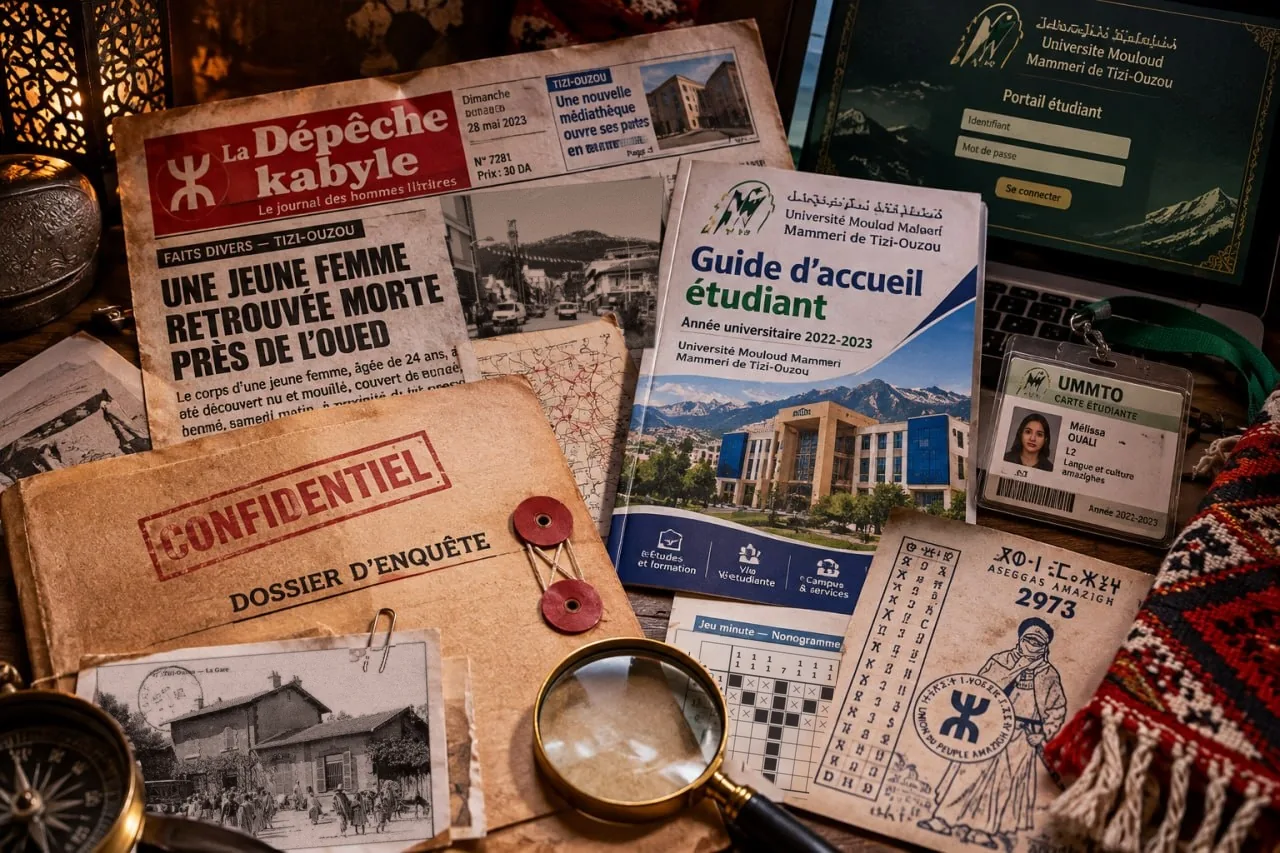
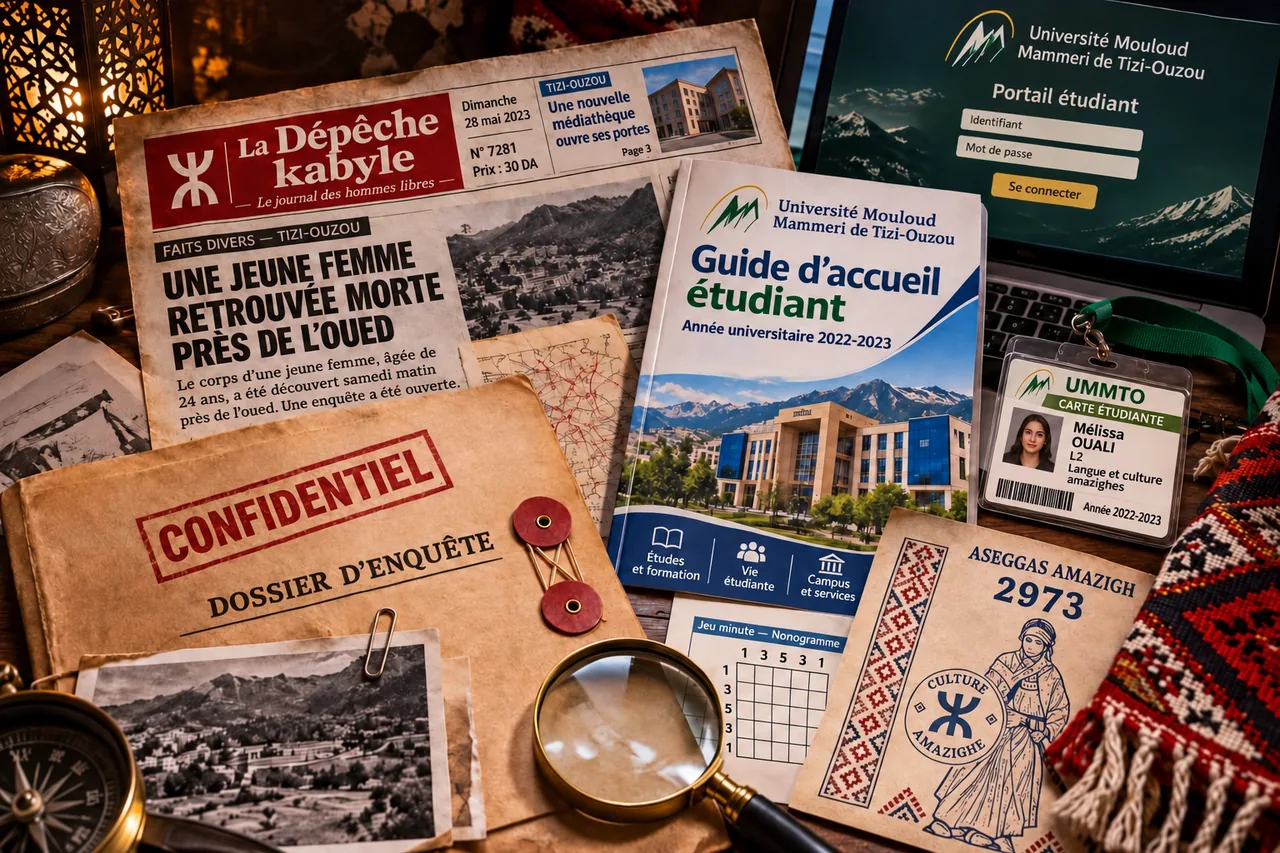
Enquête en Kabylie : nouveau visuel d'ambiance fourni (1536 × 1024)
- visuel remplacé sur la page projet et la carte 03, variante WebP 1536 ajoutée
- crédits Wikimedia retirés des mentions légales (photos plus utilisées)

Claude-Session: https://claude.ai/code/session_014WRPcxw2sYEVSuiyG1KfSe

diff --git a/projets/enquete-en-kabylie.html b/projets/enquete-en-kabylie.html
@@ -80,9 +80,9 @@
       </div>
       <figure class="kab-hero__media">
         <picture>
-          <source type="image/webp" srcset="../assets/images/kabylie/kabylie-visuel-640.webp 640w, ../assets/images/kabylie/kabylie-visuel-960.webp 960w, ../assets/images/kabylie/kabylie-visuel-1280.webp 1280w" sizes="(min-width: 64em) 61vw, 100vw">
-          <img src="../assets/images/kabylie/kabylie-visuel.jpg" width="1280" height="853" fetchpriority="high" decoding="async"
-               alt="Visuel d’ambiance : sur une table, le journal « La Dépêche kabyle » titrant sur un fait divers à Tizi-Ouzou, avec une photo du centre-ville, un dossier d’enquête marqué « Confidentiel », un guide d’accueil étudiant, une carte d’étudiant, un nonogramme à moitié résolu, une loupe, une boussole, une ancienne carte postale de la gare de Tizi-Ouzou et un calendrier amazigh en tifinagh.">
+          <source type="image/webp" srcset="../assets/images/kabylie/kabylie-visuel-640.webp 640w, ../assets/images/kabylie/kabylie-visuel-960.webp 960w, ../assets/images/kabylie/kabylie-visuel-1280.webp 1280w, ../assets/images/kabylie/kabylie-visuel-1536.webp 1536w" sizes="(min-width: 64em) 61vw, 100vw">
+          <img src="../assets/images/kabylie/kabylie-visuel.jpg" width="1536" height="1024" fetchpriority="high" decoding="async"
+               alt="Visuel d’ambiance : sur une table, le journal « La Dépêche kabyle » titrant « Une jeune femme retrouvée morte près de l’oued », un dossier d’enquête marqué « Confidentiel », un guide d’accueil étudiant, une carte d’étudiant, un ordinateur ouvert sur un portail étudiant, un nonogramme, une loupe, une boussole, des photographies anciennes de villages de montagne et un calendrier amazigh.">
         </picture>
         <figcaption>Visuel d’ambiance · projet en conception</figcaption>
       </figure>

diff --git a/mentions-legales.html b/mentions-legales.html
@@ -89,7 +89,6 @@
       <p>Sauf mention contraire, ces contenus sont la propriété d’Emeline de Hartoulari EI, exploitant sous le nom commercial Gallup &amp; Locard.</p>
       <p>Toute reproduction, représentation, diffusion, adaptation ou exploitation, totale ou partielle, sans autorisation écrite préalable est interdite, sauf dans les cas prévus par la loi.</p>
       <p>Certains visuels présentés dans les projets peuvent intégrer des éléments appartenant à des tiers, notamment des photographies, pictogrammes, fonds cartographiques ou autres ressources graphiques. Ces éléments restent la propriété de leurs titulaires respectifs et sont utilisés conformément aux licences ou autorisations applicables.</p>
-      <p>Crédits photographiques&nbsp;: le visuel d’ambiance du projet «&nbsp;Enquête en Kabylie&nbsp;» intègre deux photographies issues de Wikimedia Commons&nbsp;: «&nbsp;Centre ville de Tizi Ouzou (Algérie)&nbsp;», Magharebia, licence <a href="https://creativecommons.org/licenses/by/2.0/deed.fr" rel="noopener">CC BY 2.0</a>, et «&nbsp;Gare de Tizi Ouzou&nbsp;», carte postale ancienne (vers 1900), domaine public. Ces photographies ont été passées en noir et blanc et intégrées en perspective dans le visuel.</p>
       <p>Polices de caractères&nbsp;: Fraunces et Instrument Sans, distribuées sous licence SIL Open Font License 1.1.</p>
 
       <h2>Données personnelles</h2>

diff --git a/projets.html b/projets.html
@@ -108,8 +108,8 @@
           <article class="project-card project-theme-kabylie">
             <div class="project-card__media">
               <picture>
-                <source type="image/webp" srcset="assets/images/kabylie/kabylie-visuel-640.webp 640w, assets/images/kabylie/kabylie-visuel-960.webp 960w, assets/images/kabylie/kabylie-visuel-1280.webp 1280w" sizes="(min-width: 76rem) 36rem, (min-width: 52em) 50vw, calc(100vw - 2.5rem)">
-                <img src="assets/images/kabylie/kabylie-visuel.jpg" width="1280" height="853" decoding="async" alt="Visuel d’ambiance d’Enquête en Kabylie : journal, dossier d’enquête, guide étudiant et loupe sur une table.">
+                <source type="image/webp" srcset="assets/images/kabylie/kabylie-visuel-640.webp 640w, assets/images/kabylie/kabylie-visuel-960.webp 960w, assets/images/kabylie/kabylie-visuel-1280.webp 1280w, assets/images/kabylie/kabylie-visuel-1536.webp 1536w" sizes="(min-width: 76rem) 36rem, (min-width: 52em) 50vw, calc(100vw - 2.5rem)">
+                <img src="assets/images/kabylie/kabylie-visuel.jpg" width="1536" height="1024" decoding="async" alt="Visuel d’ambiance d’Enquête en Kabylie : journal, dossier d’enquête, guide étudiant et loupe sur une table.">
               </picture>
             </div>
             <div class="project-card__body">

diff --git a/README.md b/README.md
@@ -175,7 +175,7 @@ Un projet = **une page** dans le dossier `projets/` + **une carte** dans `projet
 | `gaule/gaule-itineraire` | page guide / calendrier | quelques pixels retirés en bas (ligne de texte coupée) |
 | `gaule/gaule-autun` | page « Avtvn » | aucun (image entière) |
 | `gaule/gaule-quiz` | écran de quiz « Question #4 » | aucun (image entière) |
-| `kabylie/kabylie-visuel` | visuel d’ambiance fourni (1280 × 853) | retouché pour plus de crédibilité : vrai nonogramme redessiné en perspective ; photo du journal remplacée par « Centre ville de Tizi Ouzou (Algérie) », Magharebia, CC BY 2.0 ; tirage ancien remplacé par la carte postale « Gare de Tizi Ouzou » (vers 1900, domaine public), via Wikimedia Commons — crédits dans les mentions légales |
+| `kabylie/kabylie-visuel` | visuel d’ambiance fourni (1536 × 1024) | aucun (image entière) |
 | `kabylie/tissage.svg` | frise tissée de la maquette bleue | redessinée en vecteur point par point (l’extrait de la maquette ne fait que 45 px de large), couleurs accordées au thème vert |
 
 Aucun contenu d’image n’a été modifié (ni redessiné, ni retouché).
